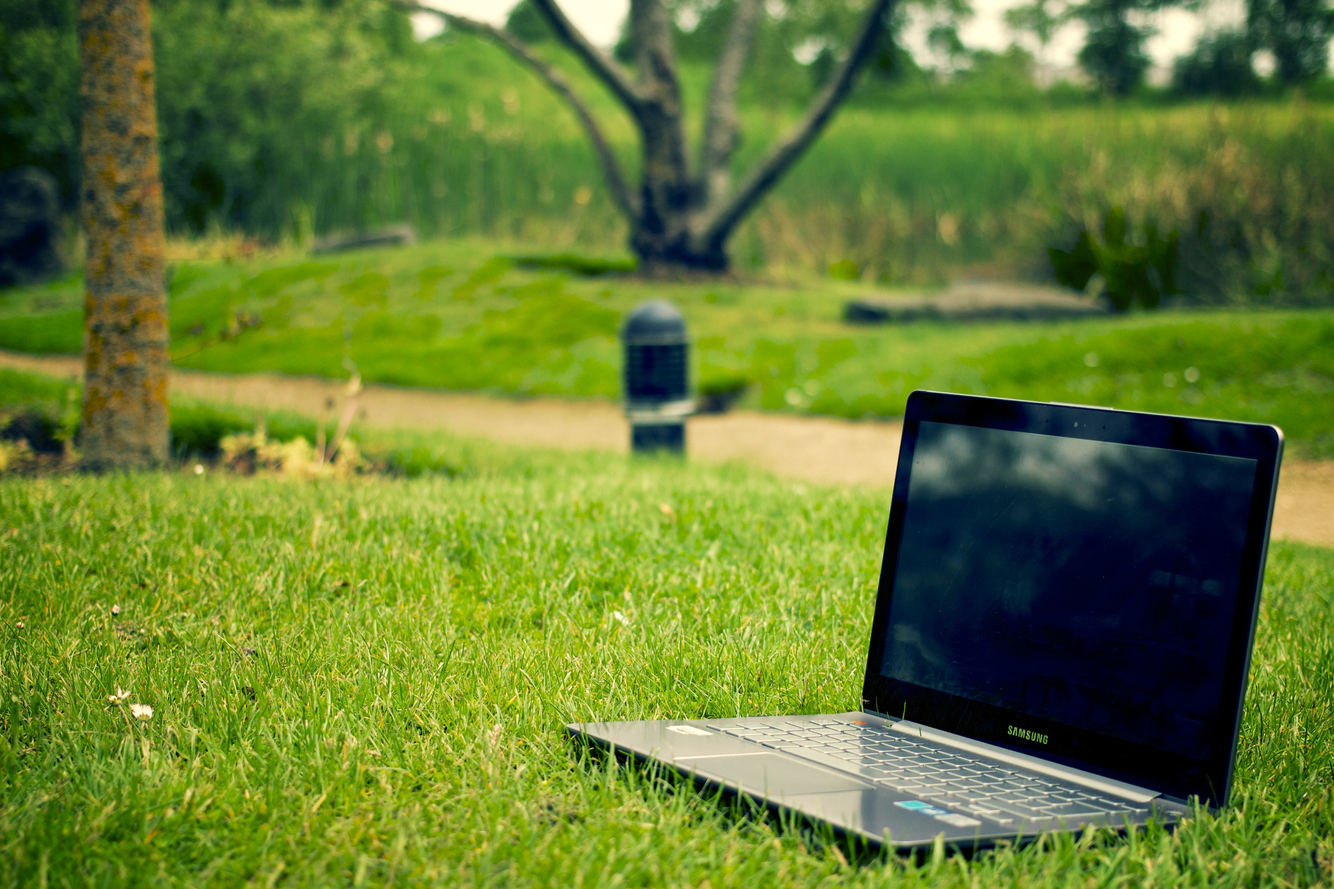
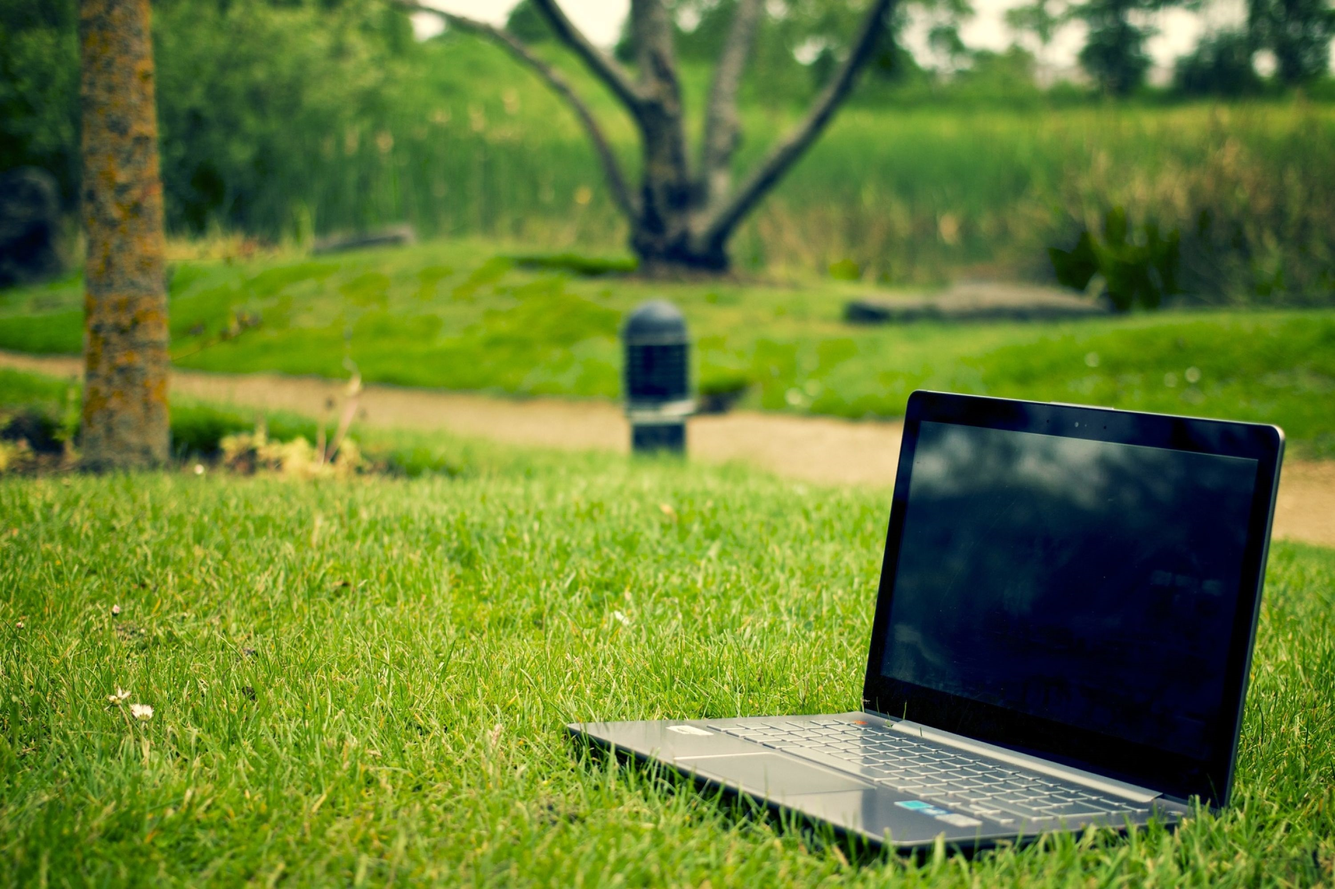
Marca del portatil quitada. Puesta imagen de menor peso.

Changed region(s): [[0.0, 0.713, 0.651, 0.837], [0.93, 0.775, 1.0, 0.868], [0.744, 0.806, 0.775, 0.837]]

diff --git a/src/App.scss b/src/App.scss
@@ -5,7 +5,7 @@
     }
 
     & .bg{
-        background: url("/../img/pc-nature_opt.jpg") no-repeat center center fixed;
+        background: url("/../img/pc-nature.jpg") no-repeat center center fixed;
         height: 100%;
         -webkit-background-size: cover;
         -moz-background-size: cover;
